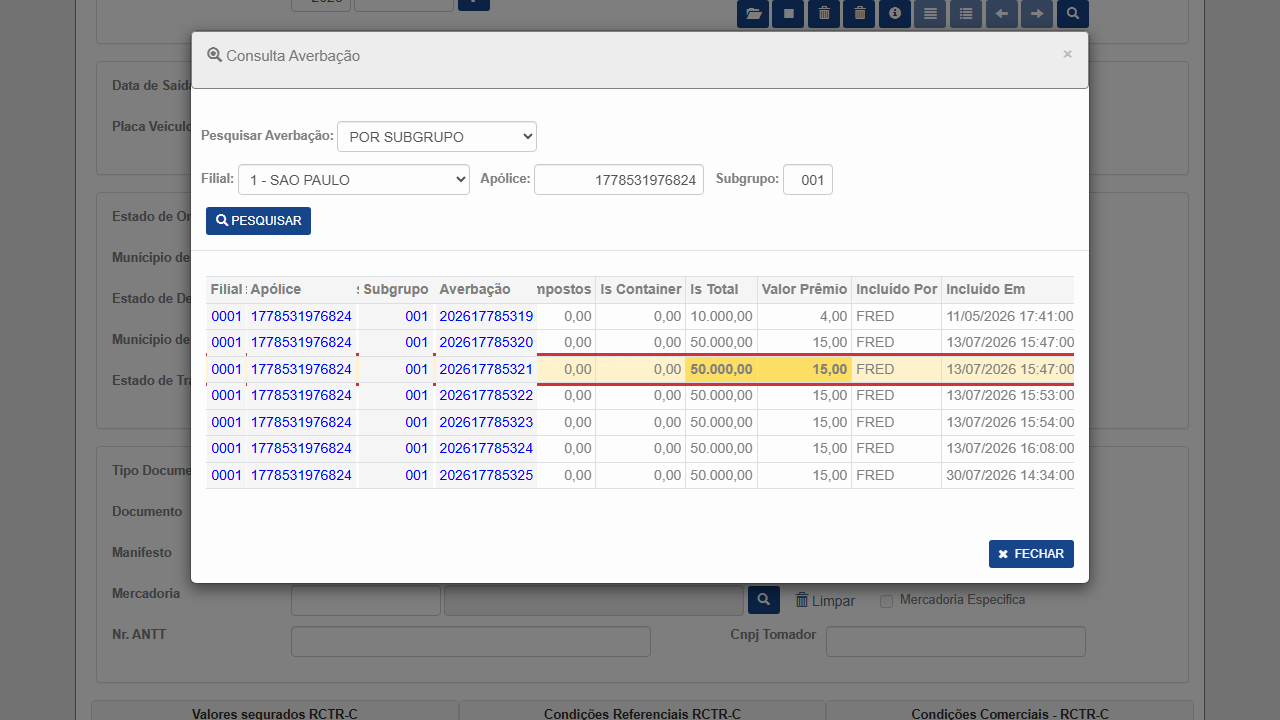
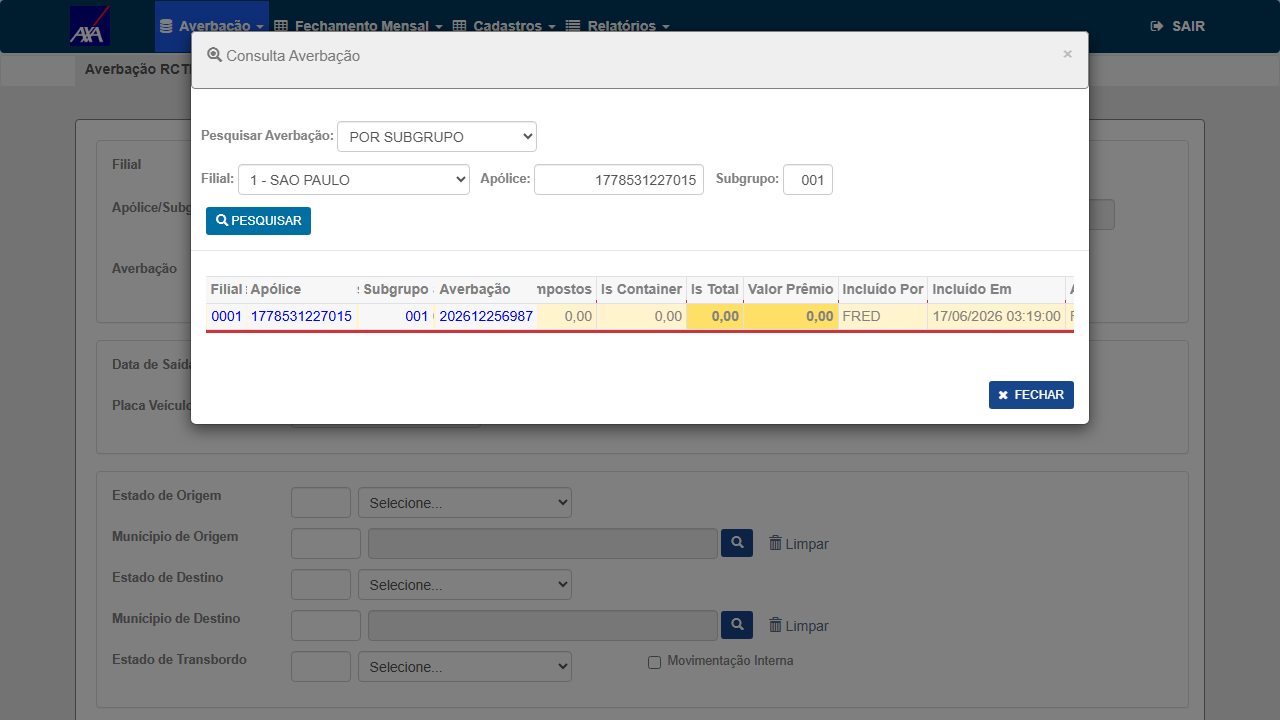
test(7470): CT-DDA-017 APROVADO — impressao da averbacao reflete o recalculo de DDR
Massa escolhida de proposito na averbacao com DDR 'S' (Estipulacao/Subcontratacao),
que zera o ramo 54 E o ramo 55: zero e exatamente onde um valor residual apareceria.

Arquivo gerado pelo Imprimir (a evidencia que vale para este CT):
  RCTRC-1778531227015-001-202612256987.xlsx - 9.900 bytes, aba AverbacaoRCTRC, 62 linhas
    linha 41 RCTR-C (ramo 54): Valor Segurado 0,00 | Premio Final 0,00
    linha 43 RC-DC  (ramo 55): Valor Segurado 0,00 | Premio Final 0,00
  banco (tb_mov_avb_nac_cit): ambos os ramos IS 0,00 e premio 0,00 -> confere
  cabecalho confirma o par (RC-DC 1778531227015) e o Alterado em 17/06 04:16 = d_usu_alt

Contraprova obrigatoria aqui - sem ela "imprimiu 0,00" nao prova nada, porque um
relatorio que sempre imprime zero passaria igual:
  RCTRC-1778531976824-001-202617785319.xlsx (averbacao nunca recalculada)
    Valor Segurado 10.000,00 | Taxa Media 0,040000 | Premio Final 4,00 = banco

Tres armadilhas do fluxo, encapsuladas no script novo
(testes-automatizados/sprint-11/pbi-7916/ct_dda_017_impressao_averbacao.py):
  1. o modal de consulta continua no DOM e INTERCEPTA o clique no Imprimir - fechar antes;
  2. Imprimir nao abre PDF, baixa RCTRC-<apolice>-<subgrupo>-<averbacao>.xlsx;
  3. o ajax CALCULANDO PREMIO deixa os campos em 0,00 por alguns segundos apos carregar.

Placar: 13 de 19 executados - 12 aprovados - 0 reprovados - 1 bloqueado - 6 pendentes.
CA-04 agora coberto por 014/015/016/017; restam 009/010 (zeramento do ramo 55).

diff --git a/docs/sprint-11-citweb/pbi-7916/index.html b/docs/sprint-11-citweb/pbi-7916/index.html
@@ -128,14 +128,14 @@
 
 <div class="dash">
   <div class="dash-card"><div class="val" id="exec-total" style="color:var(--accent)">19</div><div class="lbl">Total CTs</div></div>
-  <div class="dash-card"><div class="val" id="exec-aprovados" style="color:var(--ok)">11</div><div class="lbl">Aprovados</div></div>
+  <div class="dash-card"><div class="val" id="exec-aprovados" style="color:var(--ok)">12</div><div class="lbl">Aprovados</div></div>
   <div class="dash-card"><div class="val" id="exec-reprovados" style="color:var(--fail)">0</div><div class="lbl">Reprovados</div></div>
   <div class="dash-card"><div class="val" id="exec-bloqueados" style="color:var(--block)">1</div><div class="lbl">Bloqueados</div></div>
-  <div class="dash-card"><div class="val" id="exec-pendentes" style="color:var(--pend)">7</div><div class="lbl">Pendentes</div></div>
+  <div class="dash-card"><div class="val" id="exec-pendentes" style="color:var(--pend)">6</div><div class="lbl">Pendentes</div></div>
   <div class="dash-wide">
     <div class="lbl">Progresso</div>
-    <div class="pb-track"><div class="pb-fill" id="pb-fill" style="width:58%;background:var(--ok)"></div></div>
-    <div class="pb-pct" id="pb-pct">12 de 19 executados · 11 aprovados · 0 reprovados · 1 bloqueado (019 FAIRFAX) · 7 pendentes — atualizado 31/07 10:15 (build 260729.1927). Aprovados: CT-DDA-001, 003 (recálculo DDR por raiz), 005 (contraprova CNPJ zerado), 006, 007 (fora da vigência: contada mas não alterada), 011 (recálculo geral encadeia DDR), 012 (ramo 58 RCTA-C não entra no encadeamento), 013 (ramo 54 sem DDR — regressão OK), 015 (Relação de Embarques com CNPJ Tomador + DDR Aplicada?), 016 (Resumo de Embarques), <strong>014 (tela de averbação reflete o recálculo — 31/07)</strong>. ✅ Grupo G4 DESTRAVADO: a suspensão de veredito de 30/07 caiu — a DDR desta massa é <strong>Parcial ('P')</strong>, que preserva o ramo 54 e zera só o 55; "valores preservados" é o comportamento correto, não ausência de efeito. Restam 7: 002, 004, 008, 009, 010, 017, 018.</div>
+    <div class="pb-track"><div class="pb-fill" id="pb-fill" style="width:63%;background:var(--ok)"></div></div>
+    <div class="pb-pct" id="pb-pct">13 de 19 executados · 12 aprovados · 0 reprovados · 1 bloqueado (019 FAIRFAX) · 6 pendentes — atualizado 31/07 10:45 (build 260729.1927). Aprovados: CT-DDA-001, 003 (recálculo DDR por raiz), 005 (contraprova CNPJ zerado), 006, 007 (fora da vigência: contada mas não alterada), 011 (recálculo geral encadeia DDR), 012 (ramo 58 RCTA-C não entra no encadeamento), 013 (ramo 54 sem DDR — regressão OK), 015 (Relação de Embarques com CNPJ Tomador + DDR Aplicada?), 016 (Resumo de Embarques), <strong>014 (tela de averbação reflete o recálculo — 31/07)</strong>, <strong>017 (impressão da averbação: RCTR-C e RC-DC zerados pela DDR 'S', com contraprova não-zerada — 31/07)</strong>. ✅ Grupo G4 DESTRAVADO: a suspensão de veredito de 30/07 caiu — a DDR desta massa é <strong>Parcial ('P')</strong>, que preserva o ramo 54 e zera só o 55; "valores preservados" é o comportamento correto, não ausência de efeito. Restam 6: 002, 004, 008, 009, 010, 018.</div>
   </div>
 </div>
 
@@ -1126,14 +1126,14 @@ WHERE u_apo_pnc IN (1778531976824, 1778531976855) ORDER BY c_rmo, u_avb;</pre>
       </div>
     </div>
 
-    <div class="ct-block" data-status="pendente" data-expanded="false">
+    <div class="ct-block" data-status="aprovado" data-expanded="false">
       <div class="ct-bar">
         <div class="ct-toggle"><span class="ct-chevron"></span></div>
         <div class="ct-bar-main">
           <span class="ct-id">CT-DDA-017</span><span class="ct-prio p2">P2</span>
           <span class="ct-title">Impressão da averbação reflete o recálculo de DDR</span>
         </div>
-        <span class="ct-status-chip chip-pend">PENDENTE</span>
+        <span class="ct-status-chip chip-ok">APROVADO</span>
       </div>
       <div class="ct-panel">
         <div class="ct-grid">
@@ -1157,8 +1157,60 @@ WHERE u_apo_pnc IN (1778531976824, 1778531976855) ORDER BY c_rmo, u_avb;</pre>
           <div class="ct-field full"><label>Resultado esperado</label>
             <div class="result-ok">Arquivo de impressão gerado e válido, com IS e prêmio <strong>iguais aos valores zerados</strong> gravados pelo recálculo — sem valores residuais do estado anterior.</div>
           </div>
+          <div class="ct-field full"><label>Resultado obtido — 31/07/2026 10:44 · AXA HML · build V 1.0.260729.1927</label>
+            <div class="result-ok" style="margin-bottom:8px">
+              <strong>APROVADO</strong> — o <strong>Imprimir</strong> gera o arquivo
+              <code>RCTRC-1778531227015-001-202612256987.xlsx</code> (9.900 bytes · aba
+              <code>AverbacaoRCTRC</code> · 62 linhas), anexado a este card. Massa escolhida de
+              propósito: averbação com DDR <strong>'S'</strong> (Estipulação/Subcontratação), que
+              zera o ramo 54 <em>e</em> o ramo 55 — zero é exatamente onde um valor residual
+              apareceria.
+              <table style="width:100%;border-collapse:collapse;margin-top:8px;font-size:13px">
+                <tr style="background:#0d1f0d"><th style="text-align:left;padding:4px 8px">Linha do arquivo</th><th style="text-align:left;padding:4px 8px">Valor Segurado</th><th style="text-align:left;padding:4px 8px">Prêmio Final</th><th style="text-align:left;padding:4px 8px">Banco</th></tr>
+                <tr><td style="padding:4px 8px">41 — <strong>RCTR-C</strong> (ramo 54)</td><td style="padding:4px 8px">0,00</td><td style="padding:4px 8px">0,00</td><td style="padding:4px 8px">IS 0,00 · prêmio 0,00 ✓</td></tr>
+                <tr><td style="padding:4px 8px">43 — <strong>RC-DC</strong> (ramo 55)</td><td style="padding:4px 8px">0,00</td><td style="padding:4px 8px">0,00</td><td style="padding:4px 8px">IS 0,00 · prêmio 0,00 ✓</td></tr>
+              </table>
+              As <strong>duas</strong> linhas do par saem zeradas, coerentes com a semântica da DDR
+              'S'. O cabeçalho do arquivo confirma o par: <em>Apólice 1778531227015 · SubGrupo 001 ·
+              Averbação 202612256987 · RC-DC 1778531227015</em>, e o <em>Alterado em 17/06/2026
+              04:16</em> impresso é igual ao <code>d_usu_alt</code> do banco.
+            </div>
+            <div class="info-box" style="margin-bottom:0">
+              <strong>Contraprova (obrigatória aqui)</strong> — sem ela, "imprimiu 0,00" não prova
+              nada, porque um relatório quebrado que sempre imprime zero passaria igual. Imprimi a
+              averbação <code>202617785319</code>, nunca recalculada: o arquivo
+              <code>RCTRC-1778531976824-001-202617785319.xlsx</code> traz <strong>Valor Segurado
+              10.000,00 · Taxa Média 0,040000 · Prêmio Final 4,00</strong>, idênticos ao banco. Logo
+              o relatório lê valores reais — e o zero do caso principal é o efeito do recálculo.
+            </div>
+          </div>
+          <div class="ct-field full"><label>Automação e armadilhas do fluxo</label>
+            <div class="info-box" style="margin-bottom:0">
+              Script: <code>testes-automatizados/sprint-11/pbi-7916/ct_dda_017_impressao_averbacao.py</code>
+              — consulta, imprime, valida o XLSX com openpyxl e compara os dois ramos com
+              <code>tb_mov_avb_nac_cit</code>, incluindo a contraprova.<br>
+              Três armadilhas descobertas na execução, todas encapsuladas no script:
+              <strong>(1)</strong> o modal de consulta continua no DOM depois de carregar o registro
+              e <em>intercepta o clique</em> no botão Imprimir — é preciso fechá-lo antes;
+              <strong>(2)</strong> o Imprimir <em>não</em> abre PDF, dispara download de
+              <code>.xlsx</code> nomeado <code>RCTRC-&lt;apólice&gt;-&lt;subgrupo&gt;-&lt;averbação&gt;.xlsx</code>;
+              <strong>(3)</strong> o ajax "CALCULANDO PRÊMIO" deixa os campos de valor em 0,00 por
+              alguns segundos após carregar — imprimir ou ler antes disso leva a conclusão errada.
+            </div>
+          </div>
         </div>
-        <div class="ev-section"><div class="ev-lbl">Evidências</div><span class="ev-badge ev-pendente">PENDENTE</span></div>
+        <div class="ev-section">
+          <div class="ev-lbl">Evidências</div>
+          <div class="ev-grid">
+            <div class="ev-item"><img src="evidencias/CT-DDA-017/ev_CT-DDA-017_01_zerada-ddr-S_form.png" alt="31/07 EV1 &mdash; averba&ccedil;&atilde;o 202612256987 zerada pela DDR S, valores 0,00 na tela"><div class="ev-cap">31/07 EV1 &mdash; averba&ccedil;&atilde;o <strong>202612256987</strong> (DDR 'S'): valores <strong>0,00</strong> na tela, antes de imprimir</div></div>
+            <div class="ev-item"><img src="evidencias/CT-DDA-017/ev_CT-DDA-017_02_contraprova_form.png" alt="31/07 EV2 &mdash; contraprova, averba&ccedil;&atilde;o 202617785319 com IS 10.000,00"><div class="ev-cap">31/07 EV2 &mdash; contraprova: averba&ccedil;&atilde;o <strong>202617785319</strong> com IS 10.000,00 / pr&ecirc;mio 4,00</div></div>
+          </div>
+          <div style="font-size:12px;color:#8b949e;margin-top:8px">
+            Arquivos gerados (a evidência que vale para este CT), em <code>evidencias/CT-DDA-017/</code>:
+            <code>RCTRC-1778531227015-001-202612256987.xlsx</code> (caso, 9.900 bytes) e
+            <code>RCTRC-1778531976824-001-202617785319.xlsx</code> (contraprova, 9.938 bytes).
+          </div>
+        </div>
       </div>
     </div>
 
@@ -1272,7 +1324,7 @@ WHERE u_apo_pnc IN (1778531976824, 1778531976855) ORDER BY c_rmo, u_avb;</pre>
         <tr>
           <td><strong>CA-04</strong> — Após o recálculo os valores refletem corretamente em: tela de averbação, impressão da averbação, Relação de Embarques e Resumo de Embarques</td>
           <td>CT-DDA-009, 010 (valores) · 014 (tela) · 017 (impressão) · 015 (Relação) · 016 (Resumo)</td>
-          <td class="cov-ok">Parcial — <strong>015, 016 e 014 APROVADOS</strong> (Relação de Embarques, Resumo e tela de averbação refletem o recálculo, conferidos contra o banco). Restam 009/010 (zeramento do ramo 55, massa em criação) e 017 (impressão)</td>
+          <td class="cov-ok">Parcial — <strong>014, 015, 016 e 017 APROVADOS</strong>: tela de averbação, Relação de Embarques, Resumo e <strong>impressão</strong> refletem o recálculo, todos conferidos contra o banco. Restam 009/010 (zeramento do ramo 55, massa em criação)</td>
         </tr>
         <tr>
           <td><strong>CA-05</strong> — Demais seguradoras mantêm o comportamento anterior (sem regressão)</td>
@@ -1300,8 +1352,8 @@ WHERE u_apo_pnc IN (1778531976824, 1778531976855) ORDER BY c_rmo, u_avb;</pre>
         <tr><td>CTs de regressão</td><td>4 (CT-DDA-005, 013, 018, 019)</td></tr>
         <tr><td>CTs com evidência = arquivo</td><td>3 (CT-DDA-015, 016, 017)</td></tr>
         <tr><td>CTs que exigem criação de massa</td><td>5 (CT-DDA-002, 004, 008, 009, 010)</td></tr>
-        <tr><td>Executados</td><td><strong>12 de 19</strong> · Aprovados 11 · Reprovados 0 · Bloqueados 1 (CT-DDA-019, FAIRFAX sem a build) · Pendentes 7 (atualizado 31/07 10:15 — CT-DDA-014 aprovado nesta rodada; suspensão do grupo G4 resolvida)</td></tr>
-        <tr><td>CTs pendentes</td><td>7 — CT-DDA-002 e 004 (DDR por CNPJ total / alfanumérico), 008 (movimento fechado), 009 e 010 (zeramento do ramo 55), 017 (impressão), 018 (EZZE). Todos exigem massa nova específica, criada pelo QA</td></tr>
+        <tr><td>Executados</td><td><strong>13 de 19</strong> · Aprovados 12 · Reprovados 0 · Bloqueados 1 (CT-DDA-019, FAIRFAX sem a build) · Pendentes 6 (atualizado 31/07 10:45 — CT-DDA-014 e 017 aprovados nesta rodada; suspensão do grupo G4 resolvida)</td></tr>
+        <tr><td>CTs pendentes</td><td>6 — CT-DDA-002 e 004 (DDR por CNPJ total / alfanumérico), 008 (movimento fechado), 009 e 010 (zeramento do ramo 55), 018 (EZZE). Todos exigem massa nova específica, criada pelo QA</td></tr>
       </tbody>
     </table>
   </div>
